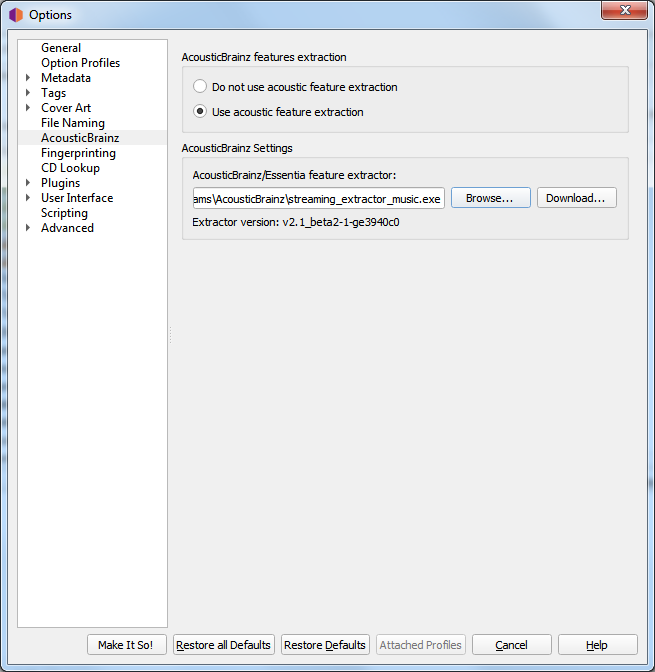
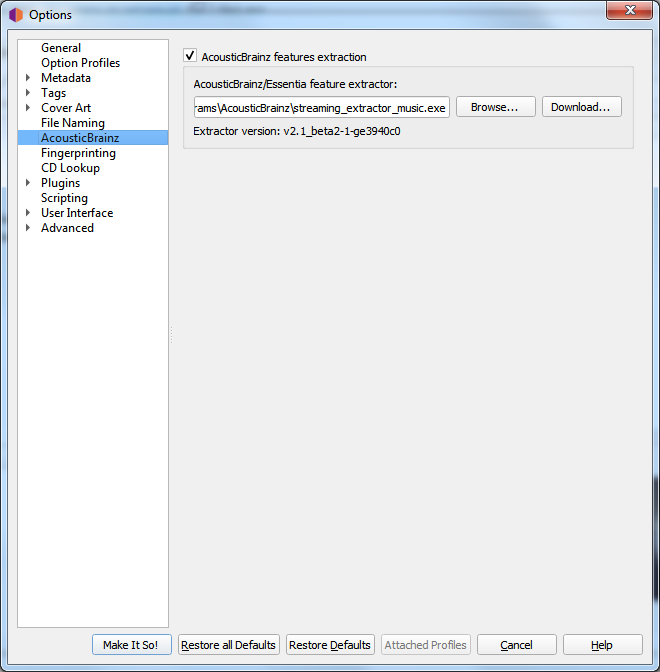
Update to match revised AcousticBrainz options page.

diff --git a/config/options_acousticbrainz.rst b/config/options_acousticbrainz.rst
@@ -19,7 +19,7 @@ extractor in the application directory.
    If enabled and a proper extractor application is available, the "Submit AcousticBrainz features" command will be enabled in the
    "Tools" section of Picard's main menu bar, when either a properly tagged file or release is selected.
 
-**AcousticBrainz settings**
+**AcousticBrainz/Essentia feature extractor**
 
    This section allows you to specify the acoustic features extractor application to use for processing the audio files.  This extractor
    is bundled with the Picard installation on Windows and macOS systems, and can be found in the Picard installation directory. There is
